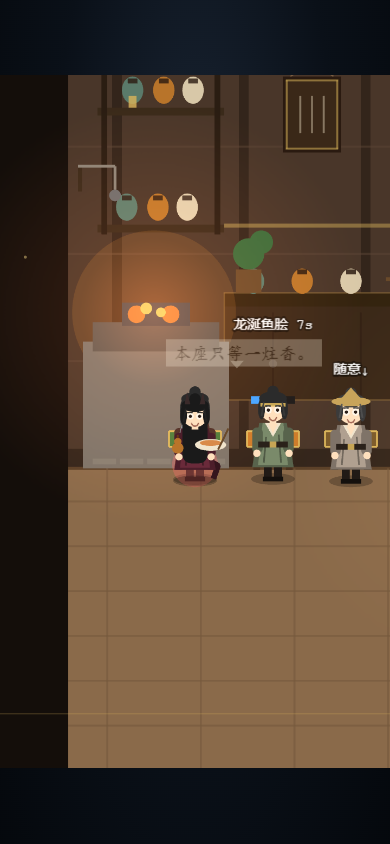
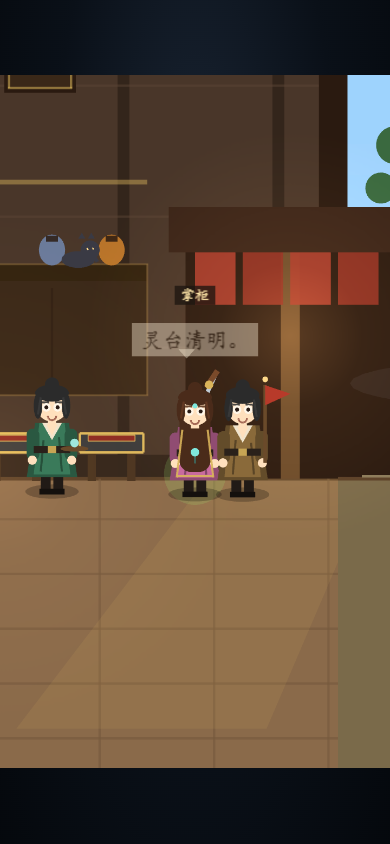
特写提到 2.2× 并加欠身动作
- 点人物特写 1.8×→2.2×，隐藏 HUD/按钮，再点同一人退出
- 被点角色欠身一次，气泡与名牌不再挤在一起
- 去除随镜头缩放的暗角，改用隐藏界面 + 左侧墙体取景
- 更新特写截图与试玩记录

测试：46 条单测、tsc、生产构建通过；特写实测 zoom 2.2→1 无报错。

diff --git a/src/main.ts b/src/main.ts
@@ -651,6 +651,25 @@ class Character extends Phaser.GameObjects.Container {
     }
   }
 
+  /** 被点进特写时的小动作：轻轻一欠身，让静止的人动一下。 */
+  focusPose() {
+    if (!this.scene || !this.visual?.active) return;
+    this.stopIdle();
+    this.scene.tweens.add({
+      targets: this.visual,
+      y: -5,
+      scaleY: Character.ART_SCALE * 1.04,
+      duration: 180,
+      yoyo: true,
+      repeat: 1,
+      ease: "Sine.easeOut",
+      onComplete: () => {
+        this.visual.setY(0).setScale(Character.ART_SCALE);
+        this.startIdle();
+      },
+    });
+  }
+
   /** 偶尔的小动作：点一下头/耸肩，让静止画面里也有活气。 */
   twitch() {
     if (this.dining || !this.scene || !this.visual?.active) return;
@@ -913,7 +932,6 @@ class TavernScene extends Phaser.Scene {
   /** 视图过渡中，防止重复触发。 */
   private transitioning = false;
   private focusTimer?: Phaser.Time.TimerEvent;
-  private focusVignette?: Phaser.GameObjects.Container;
   private focusChar?: Character;
   private focusReturn = { x: CAMERA_OPEN_X, y: SCREEN_H / 2 };
   private eventToast?: Phaser.GameObjects.Text;
@@ -2929,8 +2947,6 @@ class TavernScene extends Phaser.Scene {
   private endSession() {
     const wasFocusing = this.focusing;
     this.focusTimer?.remove();
-    this.focusVignette?.destroy();
-    this.focusVignette = undefined;
     this.focusing = false;
     this.focusChar = undefined;
     this.setFocusUiHidden(false);
@@ -4232,23 +4248,9 @@ class TavernScene extends Phaser.Scene {
     this.eventToast = undefined;
     this.hintToast?.destroy();
     this.hintToast = undefined;
-    if (!this.focusVignette) {
-      const v = this.add.container(0, 0).setScrollFactor(0).setDepth(28).setAlpha(0);
-      v.add(this.add.rectangle(0, 0, SCREEN_W, 150, 0x05070b, 0.55).setOrigin(0, 0));
-      v.add(this.add.rectangle(0, 1000, SCREEN_W, 280, 0x05070b, 0.55).setOrigin(0, 0));
-      v.add(this.add.rectangle(0, 0, 80, SCREEN_H, 0x05070b, 0.4).setOrigin(0, 0));
-      v.add(this.add.rectangle(640, 0, 80, SCREEN_H, 0x05070b, 0.4).setOrigin(0, 0));
-      v.add(
-        this.add
-          .rectangle(90, 180, 540, 760, 0x000000, 0)
-          .setStrokeStyle(1, 0xd9b45a, 0.25)
-          .setOrigin(0, 0),
-      );
-      this.focusVignette = v;
-    }
-    this.tweens.add({ targets: this.focusVignette, alpha: 1, duration: 250 });
     cam.pan(char.x, char.y - 14, 320, "Sine.easeInOut");
-    cam.zoomTo(1.8, 320, "Sine.easeInOut");
+    cam.zoomTo(2.2, 320, "Sine.easeInOut");
+    char.focusPose();
     this.focusTimer = this.time.delayedCall(4200, () => this.returnFromFocus());
   }
 
@@ -4258,18 +4260,6 @@ class TavernScene extends Phaser.Scene {
     this.focusTimer = undefined;
     this.focusing = false;
     this.focusChar = undefined;
-    if (this.focusVignette) {
-      const v = this.focusVignette;
-      this.tweens.add({
-        targets: v,
-        alpha: 0,
-        duration: 250,
-        onComplete: () => {
-          v.destroy();
-          if (this.focusVignette === v) this.focusVignette = undefined;
-        },
-      });
-    }
     const cam = this.cameras.main;
     cam.pan(this.focusReturn.x, this.focusReturn.y, 360, "Sine.easeInOut");
     cam.zoomTo(1, 360, "Sine.easeInOut");

diff --git a/docs/playtest.md b/docs/playtest.md
@@ -48,7 +48,7 @@
 
 - 美术总监：第一眼 **8** / 人物 **4** / 沉浸 **6** / 想再来一天 **4**。证据：标题页「月下金字、层叠山影」一眼立住；Lv2 店内红幡/新菜可见；但特写只微推、HUD 随缩放消失、桌卡/气泡字小。
 - 休闲玩家：第一眼 **7** / 想继续看人物 **7** / 沉浸 **6** / 想再来一天 **6**。证据：点门边白发掌柜与绿衣客人会推近、回应台词，是全场最想盯着的几秒；Lv2 红幡和排队上限 0/4 让 TA 想再冲一轮；但忙碌反馈弱、字小、升级“回店可见”还不够。
-- 复测后追加：排队基准位 350→330、间距 46，气泡用 camera.worldView 夹住；人物特写改为 1.8×、4.2 秒、主动隐藏 HUD/按钮、再点同一人可退出，镜头下移并补左侧墙体与 1400 高的地面，避免露出天空空隙；特写/事件/提示互不叠；第 1 天底部常驻「① 招待入座 / ② 点菜名出菜」引导；忙碌时按钮文字变「招待中…/烹饪中…」并降到 0.35 透明，状态行同步；HUD 目标/日志/提示字号上调，桌卡 14px；Lv2 起每张桌子加红案与金边；每天开场第一位客人 2.2 秒内到；窗内加远山/云/星点；结算加「下一阶：X 灵石 → LvY 新陈设」。
+- 复测后追加：排队基准位 350→330、间距 46，气泡用 camera.worldView 夹住；人物特写改为 **2.2×**、4.2 秒、隐藏全部 HUD/按钮、再点同一人可退出，被点角色会欠身，镜头下移并补左侧墙体与 1400 高的地面，避免露出天空空隙；特写期间抑制事件/提示 toast（否则会被放大成巨条）；第 1 天底部常驻「① 招待入座 / ② 点菜名出菜」引导；忙碌时按钮文字变「招待中…/烹饪中…」并降到 0.35 透明，状态行同步；HUD 主数值 22px 加粗、目标/提示/日志 18–20px、桌卡 14px；Lv2 起每张桌子加红案与金边；每天开场第一位客人 2.2 秒内到；窗内加远山/云/星点；结算加「下一阶：X 灵石 → LvY 新陈设」。
 - 这些最后修正在干净复测之后完成，尚未再跑一轮盲测；因此不能把 8/4/6/4 或 7/7/6/6 当作“目标已达成”的证明，只能说明第一眼已稳定在 7–8 分、人物可看性升到 7 分（休闲视角），而美术总监仍只给人物 4 分、想再来一天 4 分。
 
 ## 当前构建的实测
@@ -178,7 +178,7 @@
 - 首次进入的标题页（月晕/水墨山/前景屋脊/朱印/推门入座）：`docs/screenshots/title.png`
 - 选形象页（两张带金框、会呼吸眨眼的角色名片）：`docs/screenshots/gender.png`
 - 营业高峰（随机入座、身份人物、无底色桌卡、出菜行、红案）：`docs/screenshots/busy-tavern.png`
-- 点人物进入的 1.8× 特写（HUD 收起、暗角取景、身份台词）：`docs/screenshots/character-focus.png`
+- 点人物进入的 2.2× 特写（HUD 收起、角色欠身、身份台词）：`docs/screenshots/character-focus.png`
 - 脚本试玩结算（当前 UI 的暖木卡与「下一阶陈设」提示；此图为示例对局 3 位/25 灵石/流失 5，真实默认首局数据见上表）：`docs/screenshots/settlement.png`
 - 手动暂停灶上的高流水结算（旧版 UI 数据记录）：`docs/screenshots/manual-run.png`
 - 伙计面板（全宽雇佣行、自动开关、大关闭条）：`docs/screenshots/staff-panel.png`
